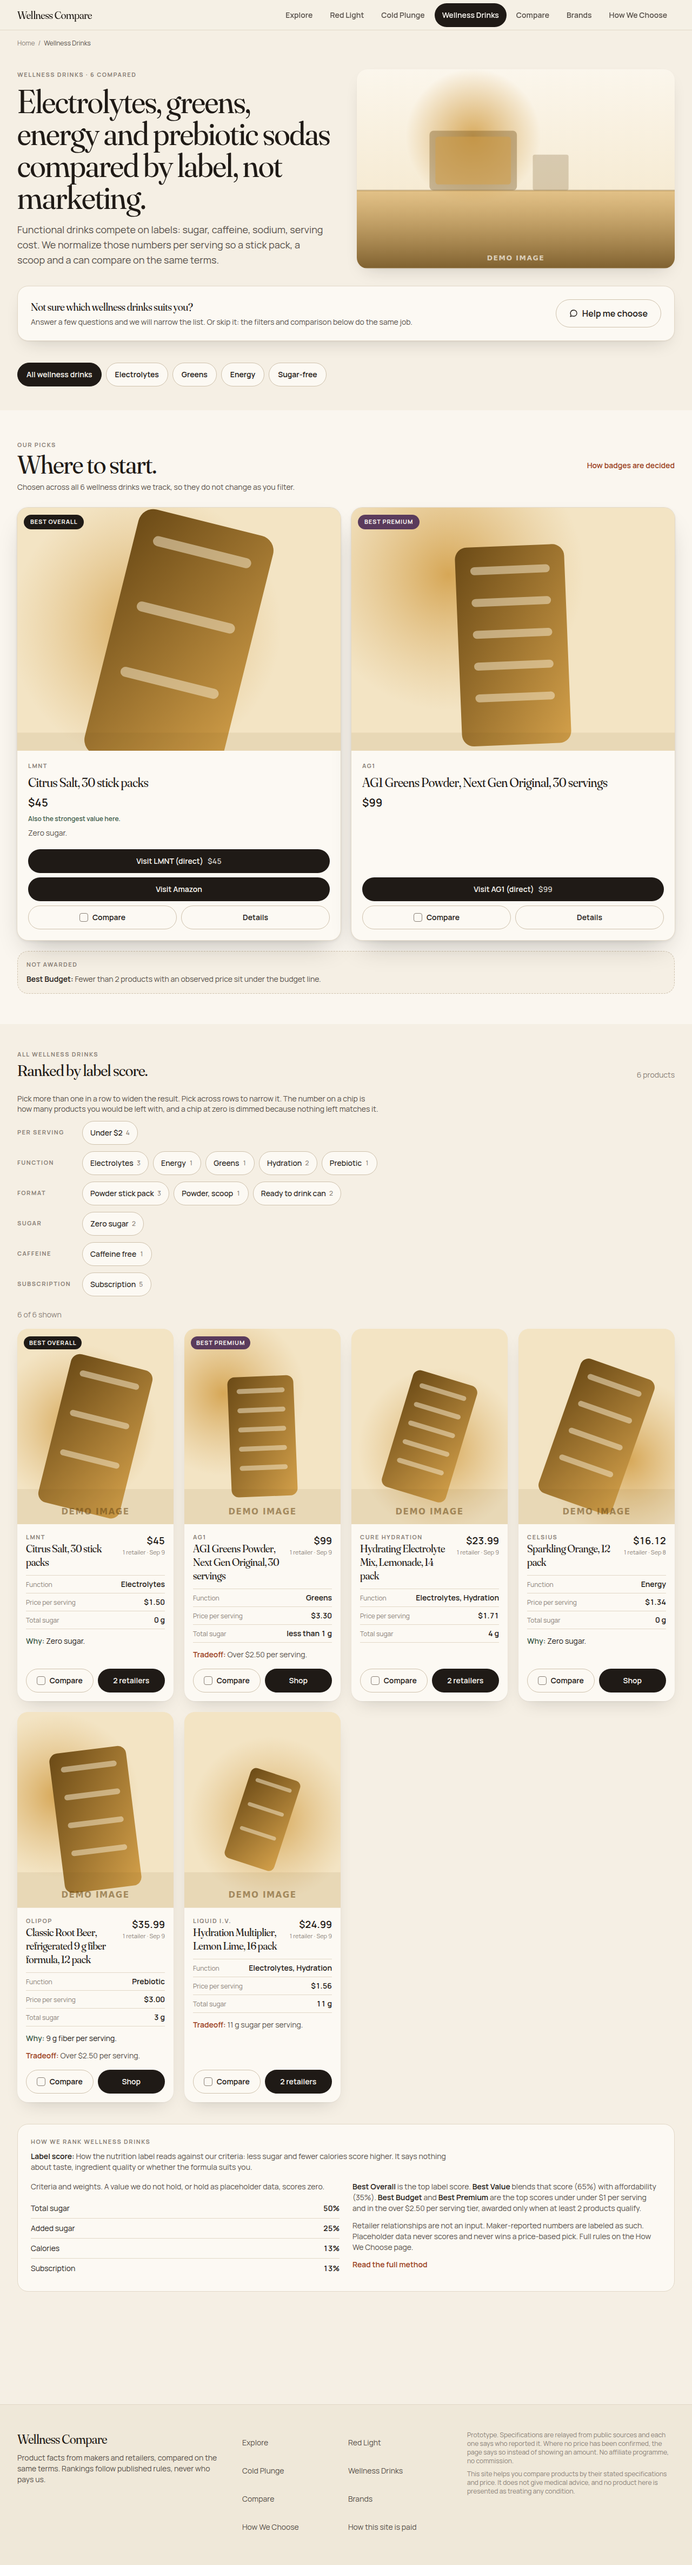
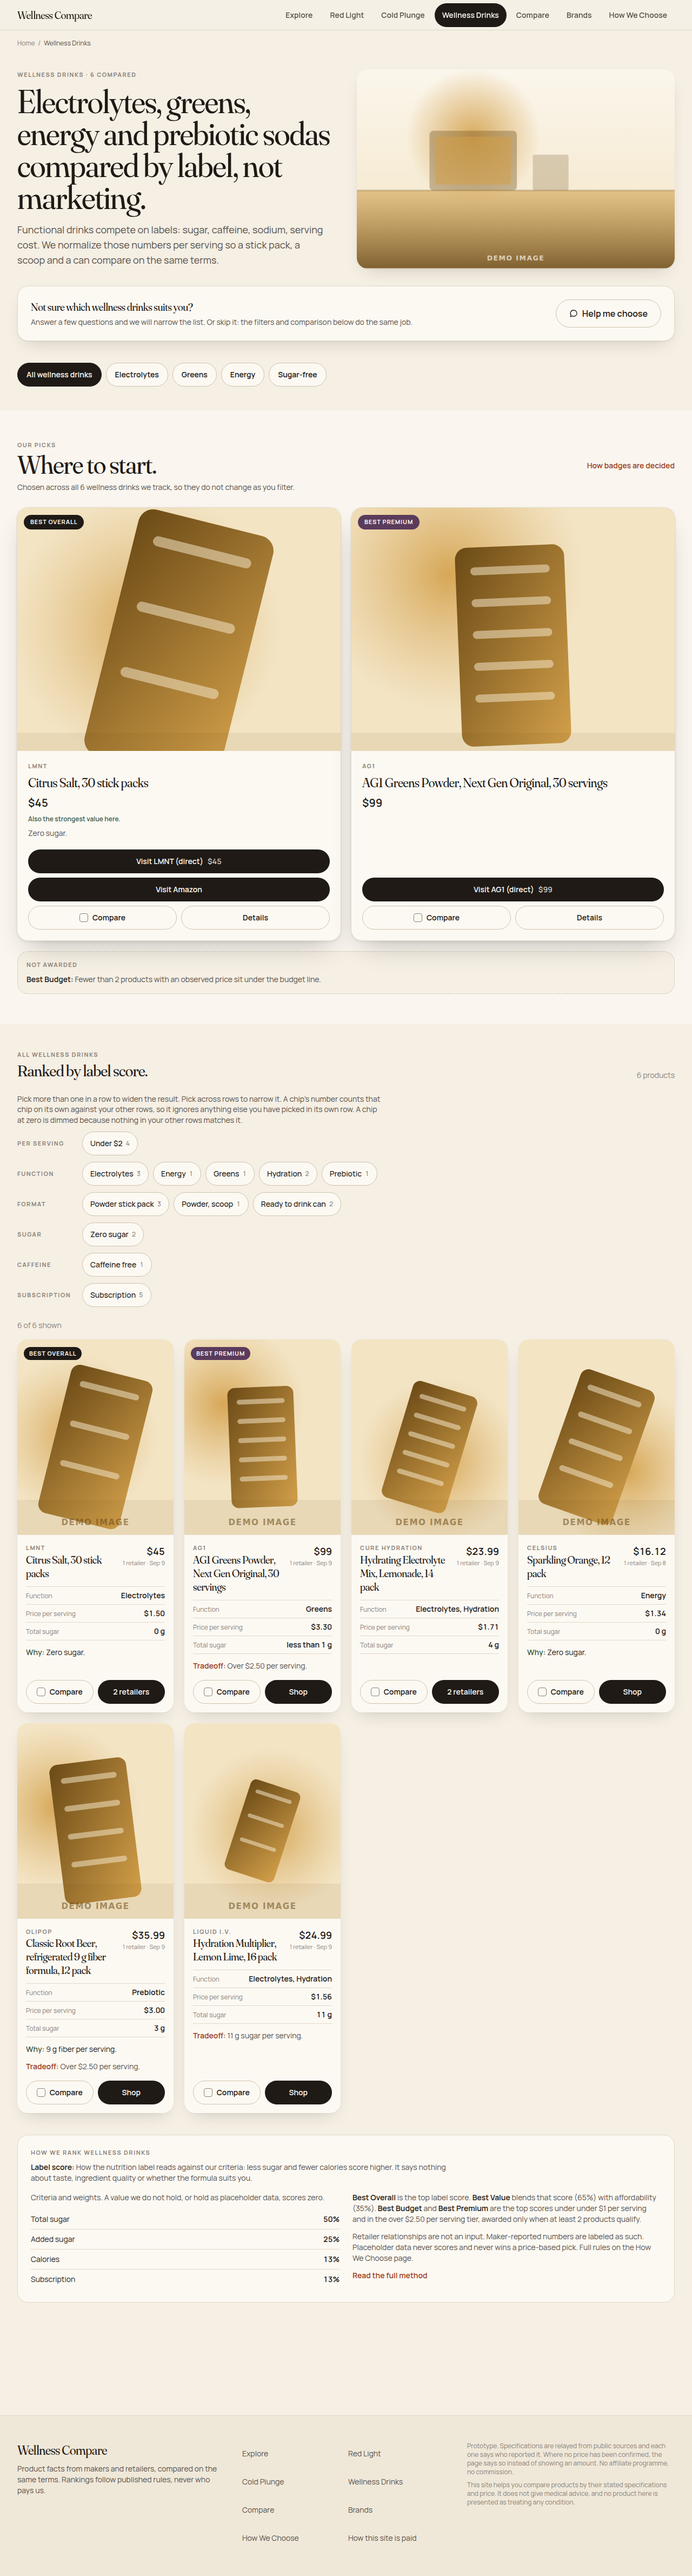
Four corrections from review
A count under an answer that was not about counting. The out-of-scope replies
dropped their product cards and kept matchSummary, so "This site has no
vitamins catalogue" was followed by "All 8 products in this category match",
rendered by the panel in bold as this site's own figure. It is true and it
answers a question nobody asked. The count goes with the cards now. What the
shopper is holding is still reported, in activeConstraints, because the whole
point of these replies is that the page is exactly as they left it. Verified in
the panel, not in the JSON: vitamins and cold plunges each render zero summary
blocks and zero card blocks.

The filter guidance described a number the code does not compute. countFor
drops every selection in the chip's own row and counts that one option against
the other rows, so it is what the chip matches on its own, not what pressing it
would leave. Those differ the moment a second chip in the same row is on, and
on red light they differ by three: with two Coverage chips selected the grid
holds 3, the third chip reads 4, and pressing it leaves 7. The sentence now
says what countFor does. No engine change. The dimmed-chip reason moves the
same way, in the accessible name and the title.

A card counted one list and linked from another. shopHref came from
buyableOffers, which drops a withheld offer; the label counted view.offers,
which keeps it. Two products in this catalogue sit on the gap. Liquid I.V.
[…]

diff --git a/src/app/api/assistant/route.ts b/src/app/api/assistant/route.ts
@@ -10,8 +10,8 @@ import { resolveCredential } from "@/domain/credential";
 import { boundInput } from "@/domain/request-bounds";
 import { evaluateCondition, matchesAll, unconfirmedByPrice } from "@/domain/conditions";
 import { engineSummary } from "@/domain/match-claims";
-import { FIXED_LIMITATION, categoryLink, clarifyingQuestion, composeReply, outOfScopeReply, questionForKey } from "@/domain/reply-composer";
-import { resolveSubjectScope } from "@/domain/subject-scope";
+import { FIXED_INVITATION, FIXED_LIMITATION, categoryLink, clarifyingQuestion, composeReply, outOfScopeReply, questionForKey } from "@/domain/reply-composer";
+import { negatedCategoryIds, resolveSubjectScope } from "@/domain/subject-scope";
 import { toEngineConstraints } from "@/domain/model-constraints";
 import { namedButUnconstrained, namedValues } from "@/domain/named-values";
 import { isMoneyKey, moneyContractText } from "@/domain/money-contract";
@@ -211,7 +211,7 @@ export async function POST(req: Request) {
         proposals: [],
         medicalRedirect: false,
         links: redirect.links,
-        suppressProducts: true,
+        outOfScope: true,
       }),
     );
   }
@@ -570,13 +570,33 @@ export async function POST(req: Request) {
       // returned before the model was called.
       medicalRedirect: false,
       notice: undefined,
-      // A shopper who has reached the fixed statement of what this site can
-      // compare is handed the sections it compares. It is the same set of links
-      // the cross-category answer offers, because it is the same dead end:
-      // nothing here matched, and a way out beats a shrug.
-      links: composed === FIXED_LIMITATION ? categories.map(categoryLink) : undefined,
+      // Both dead ends, not just the question. A reply reaches the fixed
+      // limitation only when `looksLikeQuestion` says so, and "I want
+      // kettlebells" is a statement: it fell to the invitation, which offered
+      // nothing but "What matters most to you here?" beside the category's own
+      // cards. Nothing was understood in either case, so both get the sections
+      // this site holds.
+      //
+      // The links say what exists. They do not say the request was understood
+      // and they do not say kettlebells are absent, because nothing here knows
+      // that.
+      links: composed === FIXED_LIMITATION || composed.startsWith(FIXED_INVITATION) ? deadEndLinks(lastUser) : undefined,
     }),
   );
+}
+
+/**
+ * The sections offered beside a reply nothing was read from.
+ *
+ * Every category this site holds, minus any the message ruled out. "I don't
+ * want a cold plunge" is a sentence that already says where not to send
+ * somebody. If it rules out everything, the full set stands: a dead end with no
+ * way out of it is worse than an unwanted link.
+ */
+function deadEndLinks(text: string) {
+  const negated = new Set(negatedCategoryIds(text, categories));
+  const offered = categories.filter((c) => !negated.has(c.id));
+  return (offered.length > 0 ? offered : categories).map(categoryLink);
 }
 
 function toRef(v: ProductView, outcome: Outcome, cat: CategoryDefinition): AssistantProductRef {
@@ -632,20 +652,26 @@ function reply(args: {
   oneRelaxationIsEnough?: boolean;
   notice?: string;
   links?: AssistantReply["links"];
-  // Set when the reply is not about the products on this page. The cards are
-  // dropped rather than shown under an answer that is not about them: a
-  // red-light shopper asking about cold plunges was going to be handed three
-  // red-light panels beside a sentence saying this page is the wrong one.
-  suppressProducts?: boolean;
+  // Set when the reply is not about the products on this page. A red-light
+  // shopper asking about cold plunges was going to be handed three red-light
+  // panels beside a sentence saying this page is the wrong one.
+  //
+  // The count goes with the cards. "All 8 products in this category match" is
+  // true and it is an answer to a question nobody asked: printed under "this
+  // site has no vitamins catalogue" it reads as a count of something, and the
+  // panel renders it in bold as the site's own figure. What the shopper holds
+  // is still reported, in activeConstraints, because the point of these replies
+  // is that the page is exactly as they left it.
+  outOfScope?: boolean;
 }): AssistantReply {
   const { outcome } = args;
-  const products = args.suppressProducts ? [] : outcome.matching.slice(0, 3).map((v) => toRef(v, outcome, args.cat));
-  const unconfirmed = args.suppressProducts ? [] : outcome.unconfirmed.slice(0, 3).map((v) => toRef(v, outcome, args.cat));
+  const products = args.outOfScope ? [] : outcome.matching.slice(0, 3).map((v) => toRef(v, outcome, args.cat));
+  const unconfirmed = args.outOfScope ? [] : outcome.unconfirmed.slice(0, 3).map((v) => toRef(v, outcome, args.cat));
   return {
     text: args.text,
     // Authored here, from the same evaluation the cards come from, on every
-    // reply including the ones the model never reached.
-    matchSummary: engineSummary(outcome.matching.length, args.totalProducts, args.oneRelaxationIsEnough),
+    // reply that has cards to describe.
+    matchSummary: args.outOfScope ? "" : engineSummary(outcome.matching.length, args.totalProducts, args.oneRelaxationIsEnough),
     failure: args.failure,
     mode: args.mode,
     question: args.question,

diff --git a/src/__tests__/cross-category-assistant.test.ts b/src/__tests__/cross-category-assistant.test.ts
@@ -30,9 +30,11 @@ type Body = {
   text: string;
   mode: string;
   products: unknown[];
+  unconfirmedPrice: unknown[];
   proposals: unknown[];
   links?: { href: string; label: string }[];
   activeConstraints: { key: string; label: string }[];
+  matchSummary: string;
 };
 
 function ask(categoryId: string, text: string, hard: unknown[] = []) {
@@ -102,6 +104,16 @@ describe("a red-light shopper asks about cold plunges", () => {
     const body: Body = await (await POST(ask("red-light", MESSAGE))).json();
     expect(body.proposals).toEqual([]);
     expect(body.products).toEqual([]);
+    expect(body.unconfirmedPrice).toEqual([]);
+  });
+
+  // The count goes with the cards. "All 8 products in this category match" is
+  // true and answers a question nobody asked, and the panel renders it in bold
+  // as the site's own figure directly under a sentence about another section.
+  it("counts nothing, because it is not about the products on this page", async () => {
+    goScripted();
+    const body: Body = await (await POST(ask("red-light", MESSAGE))).json();
+    expect(body.matchSummary).toBe("");
   });
 
   it("leaves the shopper's own filters exactly as they set them", async () => {
@@ -120,6 +132,15 @@ describe("a subject this site has no catalogue for", () => {
     expect(body.text).toContain("no vitamins catalogue");
     expect(body.links?.map((l) => l.href)).toEqual(["/red-light", "/cold-plunge", "/wellness-drinks"]);
     expect(body.proposals).toEqual([]);
+    expect(body.products).toEqual([]);
+    expect(body.matchSummary).toBe("");
+  });
+
+  it("still reports the filters the shopper is holding", async () => {
+    goScripted();
+    const held = [{ key: "price", op: "lte", value: 70000 }];
+    const body: Body = await (await POST(ask("red-light", "do you have vitamins?", held))).json();
+    expect(body.activeConstraints.map((c) => c.key)).toEqual(["price"]);
   });
 
   // Matt's spelling.
@@ -141,8 +162,11 @@ describe("messages that must not move anybody", () => {
   it("ignores a category the shopper ruled out", async () => {
     goScripted();
     const body: Body = await (await POST(ask("red-light", "I don't want a cold plunge, show me panels"))).json();
-    expect(body.links).toBeUndefined();
     expect(body.text).not.toContain("separate section");
+    // "panels" is not in this category's vocabulary, so nothing was read and the
+    // reply is the invitation, which offers this site's sections. Cold plunges
+    // is not among them: the sentence has already said so.
+    expect(body.links?.map((l) => l.href)).toEqual(["/red-light", "/wellness-drinks"]);
   });
 
   it("asks which one when the message names two", async () => {
@@ -162,9 +186,48 @@ describe("messages that must not move anybody", () => {
 });
 
 describe("a dead end always offers a way out", () => {
+  const SECTIONS = ["/red-light", "/cold-plunge", "/wellness-drinks"];
+
   it("puts the section links under the fixed limitation", async () => {
     goScripted();
     const body: Body = await (await POST(ask("red-light", "which is best for my skin tone?"))).json();
-    expect(body.links?.map((l) => l.href)).toEqual(["/red-light", "/cold-plunge", "/wellness-drinks"]);
+    expect(body.links?.map((l) => l.href)).toEqual(SECTIONS);
+  });
+
+  // A statement never reaches the fixed limitation: `looksLikeQuestion` sends
+  // only questions there. "I want kettlebells" fell to the invitation, which
+  // offered "What matters most to you here?" beside this category's own cards
+  // and no way anywhere else.
+  it("puts them under the invitation too, for a statement nothing was read from", async () => {
+    goScripted();
+    const body: Body = await (await POST(ask("red-light", "I want kettlebells"))).json();
+    expect(body.text).toContain("What matters most to you here?");
+    expect(body.links?.map((l) => l.href)).toEqual(SECTIONS);
+  });
+
+  // The links say what this site holds. They do not say the request was
+  // understood, and they do not say kettlebells are absent: nothing here knows
+  // that, and only the four written entries in ABSENT_SUBJECTS may say it.
+  it("claims nothing about what it could not read", async () => {
+    goScripted();
+    const body: Body = await (await POST(ask("red-light", "I want kettlebells"))).json();
+    expect(body.text).not.toMatch(/kettlebell/i);
+    expect(body.text).not.toMatch(/catalogue/i);
+    expect(body.text).not.toMatch(/separate section/i);
+  });
+
+  it("still counts and still shows the page's own products", async () => {
+    goScripted();
+    const body: Body = await (await POST(ask("red-light", "I want kettlebells"))).json();
+    // Nothing was applied, so the page is unchanged and the count describes it.
+    expect(body.matchSummary).toContain("All 8 products");
+    expect(body.products.length).toBeGreaterThan(0);
+    expect(body.proposals).toEqual([]);
+  });
+
+  it("says nothing extra once a real preference is read", async () => {
+    goScripted();
+    const body: Body = await (await POST(ask("red-light", "a full body panel under $700"))).json();
+    expect(body.links).toBeUndefined();
   });
 });

diff --git a/src/__tests__/card-actions.render.test.tsx b/src/__tests__/card-actions.render.test.tsx
@@ -1,0 +1,91 @@
+// @vitest-environment jsdom
+import { cleanup, render, screen } from "@testing-library/react";
+import { afterEach, describe, expect, it } from "vitest";
+import { CompareProvider } from "@/components/compare/CompareProvider";
+import { ProductCard } from "@/components/product/ProductCard";
+import { categoryById } from "@/domain/categories";
+import { recommendCategory } from "@/domain/recommend";
+import { buyableOffers } from "@/domain/view";
+import { viewsFor } from "./fixtures";
+
+// The card's action counted one list and linked from another.
+//
+// `shopHref` came from buyableOffers, which drops a withheld offer. The label
+// counted view.offers, which keeps it. Two real products in this catalogue sit
+// on the gap: Liquid I.V. holds two offers and one is withheld, so the card
+// advertised "2 retailers" over a link straight out to the single retailer a
+// shopper can be sent to. Plunge holds one offer and it is withheld, so the
+// card offered "Shop" over an anchor with nothing to shop behind it.
+
+afterEach(cleanup);
+
+// The card carries a CompareToggle, which reads the compare provider.
+function draw(item: ReturnType<typeof card>["item"], cat: ReturnType<typeof card>["cat"]) {
+  return render(
+    <CompareProvider>
+      <ProductCard item={item} cat={cat} />
+    </CompareProvider>,
+  );
+}
+
+function card(categoryId: string, productId: string) {
+  const cat = categoryById(categoryId)!;
+  const { products } = recommendCategory(viewsFor(categoryId), cat);
+  const item = products.find((p) => p.view.id === productId)!;
+  return { item, cat, view: item.view };
+}
+
+describe("the action on a product card", () => {
+  it("counts the retailers a shopper can be sent to, not the ones on the record", () => {
+    const { item, cat, view } = card("wellness-drinks", "liquid-iv-hydration-multiplier-16");
+    // The gap this test exists for. If the record changes, the test still
+    // asserts the rule rather than the number.
+    expect(view.offers.length).toBe(2);
+    expect(buyableOffers(view).length).toBe(1);
+
+    draw(item, cat);
+    expect(screen.queryByText("2 retailers")).toBeNull();
+    const action = screen.getByText("Shop").closest("a")!;
+    expect(action.getAttribute("href")).toBe(buyableOffers(view)[0].url);
+    expect(action.getAttribute("rel")).toBe("sponsored nofollow noopener");
+  });
+
+  it("offers details, not a shop, when there is nothing to shop", () => {
+    const { item, cat, view } = card("cold-plunge", "plunge-original");
+    expect(buyableOffers(view).length).toBe(0);
+
+    draw(item, cat);
+    expect(screen.queryByText("Shop")).toBeNull();
+    const action = screen.getByText("Details").closest("a")!;
+    // Internal, and to the page that says what is known and why no retailer is
+    // listed. Not an outbound link and not an anchor to an empty section.
+    expect(action.getAttribute("href")).toBe(`/products/${view.slug}`);
+    expect(action.getAttribute("rel")).toBeNull();
+    expect(action.getAttribute("target")).toBeNull();
+  });
+
+  it("still names several retailers when several are buyable", () => {
+    const { item, cat, view } = card("red-light", "hooga-pro1500");
+    const buyable = buyableOffers(view);
+    expect(buyable.length).toBeGreaterThan(1);
+
+    draw(item, cat);
+    const action = screen.getByText(`${buyable.length} retailers`).closest("a")!;
+    expect(action.getAttribute("href")).toBe(`/products/${view.slug}#retailers`);
+    expect(action.getAttribute("target")).toBeNull();
+  });
+
+  it("never advertises a count its own link cannot honour", () => {
+    for (const categoryId of ["red-light", "cold-plunge", "wellness-drinks"]) {
+      const cat = categoryById(categoryId)!;
+      const { products } = recommendCategory(viewsFor(categoryId), cat);
+      for (const item of products) {
+        cleanup();
+        draw(item, cat);
+        const n = buyableOffers(item.view).length;
+        const expected = n > 1 ? `${n} retailers` : n === 1 ? "Shop" : "Details";
+        expect(screen.getByText(expected), `${item.view.id} should offer "${expected}"`).toBeTruthy();
+      }
+    }
+  });
+});

diff --git a/src/components/category/FilterBar.tsx b/src/components/category/FilterBar.tsx
@@ -25,11 +25,17 @@ export function FilterChips() {
       {/* The rule the chips already follow, said out loud. Picking two chips in
           one row widens the result and picking one in each row narrows it, and
           nothing on the page said so: a shopper who picked "Under $300" and
-          watched five other chips grey out had no way to know why. The number
-          on each chip is what that press would leave. */}
+          watched five other chips grey out had no way to know why.
+
+          The sentence about the number is written from what `countFor` does,
+          not from what a number beside a chip looks like it should mean. It
+          drops every selection in the chip's own row and counts that one option
+          against the other rows, so it is what the chip matches on its own, not
+          what pressing it would leave. Those differ the moment a second chip in
+          the same row is already on. */}
       <p data-testid="filter-guidance" className="max-w-2xl text-sm leading-snug text-fg-soft">
-        Pick more than one in a row to widen the result. Pick across rows to narrow it. The number on a chip is how many products you would be left with, and a chip at zero is dimmed
-        because nothing left matches it.
+        Pick more than one in a row to widen the result. Pick across rows to narrow it. A chip&apos;s number counts that chip on its own against your other rows, so it ignores anything
+        else you have picked in its own row. A chip at zero is dimmed because nothing in your other rows matches it.
       </p>
       {f.groups.map((g) => (
         <div key={g.key} className="flex flex-wrap items-center gap-2">
@@ -48,8 +54,8 @@ export function FilterChips() {
                 // screen reader nothing about why it cannot be pressed, and
                 // sighted shoppers only got a dimmer pill. Both now get the
                 // reason.
-                aria-label={dead ? `${o.label}, no products left match this` : undefined}
-                title={dead ? "Nothing left matches this. Clear a filter in another row to reach it." : undefined}
+                aria-label={dead ? `${o.label}, no products in your other rows match this` : undefined}
+                title={dead ? "Nothing in your other rows matches this. Clear a filter in another row to reach it." : undefined}
                 onClick={() => f.toggle(o.id)}
                 className={cn(
                   "tap inline-flex items-center gap-1.5 rounded-pill border px-3.5 text-sm font-medium transition-colors",

diff --git a/src/components/product/ProductCard.tsx b/src/components/product/ProductCard.tsx
@@ -23,8 +23,17 @@ export function ProductCard({ item, cat, priority = false }: { item: Recommended
   // configuration nobody has matched, which the product page already refuses
   // to link.
   const buyable = buyableOffers(view);
-  const shopHref = buyable.length === 1 ? buyable[0].url : `${href}#retailers`;
+  // Destination AND label from the same list. The href already came from
+  // `buyable` and the label still counted `view.offers`, which holds the
+  // withheld ones too, so a product with two offers and one of them withheld
+  // advertised "2 retailers" over a link to the single one a shopper can
+  // actually be sent to. With none buyable it said "Shop" over an anchor that
+  // goes nowhere a shopper can buy.
   const external = buyable.length === 1;
+  const shopHref = external ? buyable[0].url : buyable.length > 1 ? `${href}#retailers` : href;
+  // Nothing to shop is not a shop button. The product page still says what is
+  // known and why no retailer is listed, so the way in stays.
+  const shopLabel = buyable.length > 1 ? `${buyable.length} retailers` : buyable.length === 1 ? "Shop" : "Details";
 
   return (
     <article className="lift flex flex-col overflow-hidden rounded-card bg-surface-raised shadow-card hover:-translate-y-0.5 hover:shadow-float">
@@ -78,7 +87,7 @@ export function ProductCard({ item, cat, priority = false }: { item: Recommended
             rel={external ? "sponsored nofollow noopener" : undefined}
             className={buttonStyles("primary", "md")}
           >
-            {view.offers.length > 1 ? `${view.offers.length} retailers` : "Shop"}
+            {shopLabel}
           </a>
         </div>
       </div>

diff --git a/src/domain/subject-scope.ts b/src/domain/subject-scope.ts
@@ -175,6 +175,26 @@ function affirmed(tokens: string[], terms: string[]): boolean {
   return seen;
 }
 
+/**
+ * Categories the message names and rules out.
+ *
+ * Used where the site offers its sections as a way out of a dead end. Offering
+ * "Go to Cold Plunges" to someone who has just written that they do not want a
+ * cold plunge is tin-eared, and the refusal is already right there in the
+ * sentence. It changes nothing else: a negated category was never going to be
+ * proposed as a switch.
+ */
+export function negatedCategoryIds(text: string, all: CategoryDefinition[]): string[] {
+  const tokens = tokenize(text);
+  if (tokens.length === 0) return [];
+  return all
+    .filter((c) => categoryTerms(c).some((term) => {
+      const at = findTerm(tokens, term);
+      return at >= 0 && negatedAt(tokens, at);
+    }))
+    .map((c) => c.id);
+}
+
 /** The phrases that name a category, from the category's own definition. */
 export function categoryTerms(cat: CategoryDefinition): string[] {
   return [cat.name, cat.navLabel, cat.slug.replace(/-/g, " "), ...cat.aliases];

diff --git a/docs/preview/index.html b/docs/preview/index.html
@@ -39,7 +39,7 @@
 <header>
   <h1>Wellness Compare</h1>
   <p>Screenshots of the built site. Every image is a real page from a production build served locally, not a mockup.</p>
-  <p class="meta">Build <code id="build">CJtlGsehw6cHk3CH2n0aE</code>, captured <span id="captured">2026-09-11</span>. Run it yourself with <code>npm run preview</code>.</p>
+  <p class="meta">Build <code id="build">l1evBeTaoAowonhsVZjy6</code>, captured <span id="captured">2026-09-11</span>. Run it yourself with <code>npm run preview</code>.</p>
 </header>
 
 <div class="tabs" role="group" aria-label="Viewport">
